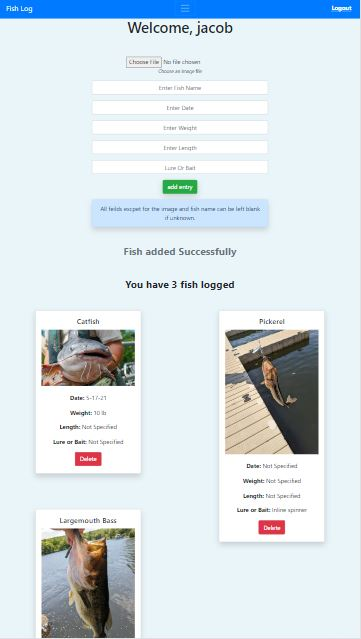
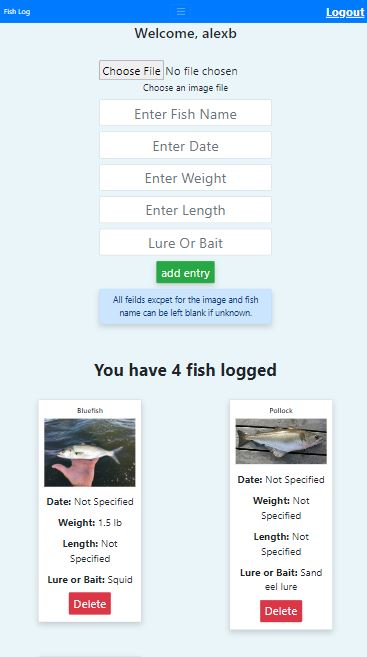
Made fonts bigger for mobile
Made fonts bigger for mobile devices so its easier to read

Changed region(s): [[0.0914, 0.0892, 0.9141, 1.0], [0.0, 0.0, 1.0, 0.0595]]

diff --git a/static/style.css b/static/style.css
@@ -1,38 +1,59 @@
-.logout
-{display: block;
+.logout {
+    display: block;
     float: left;
-   color: white;
-   text-decoration: underline;
-   font-weight: bold;
+    color: white;
+    text-decoration: underline;
+    font-weight: bold;
 }
 
-body{
+body {
     background-color: rgba(195, 227, 238, 0.336);
 }
-.card{
+
+.card {
     margin: 0 auto;
     float: none;
     margin-bottom: 3rem;
-   
+
 }
 
-.input_txt{
-width: 30rem;
-margin: 0 auto;
+.input_txt {
+    width: 30rem;
+    margin: 0 auto;
     float: none;
     margin-bottom: 3rem;
-  
+
 }
-.search-Result{
+
+.search-Result {
     font-weight: bold;
     color: black;
     font-size: 2rem;
 }
 
 @media only screen and (max-width: 1200px) {
-    
-    .card-columns{
-        column-count: 2;
-       
+    nav {
+        font-size: 2rem;
     }
-  }
+    .card-text{
+        font-size: 1.75rem;
+    }
+    .card-columns {
+        column-count: 2;
+
+    }
+    .alert{
+        font-size: 1.5rem;
+    }
+    .btn {
+        font-size: 2rem;
+    }
+    form{font-size: 2rem;
+    }
+    .form-control{
+        font-size: 2.5rem;
+    }
+    .font-weight-bold{
+        font-size: 3rem;
+    }
+}

diff --git a/static/loginStyle.css b/static/loginStyle.css
@@ -27,3 +27,16 @@ form{
 .form-control{
     margin-left: 25%;
 }
+
+@media only screen and (max-width: 1200px) {
+    .form-control{
+        font-size: 2rem;
+    }
+    .btn{
+        font-size: 2rem;
+    }
+    label{
+        font-size: 2.5rem;
+    }
+
+}
